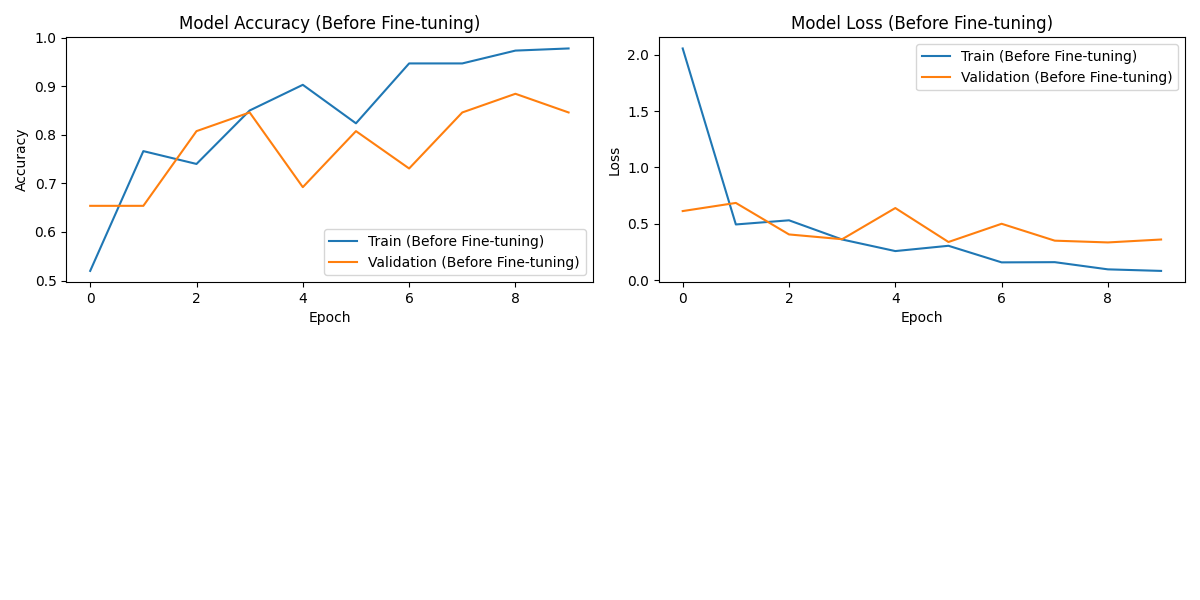
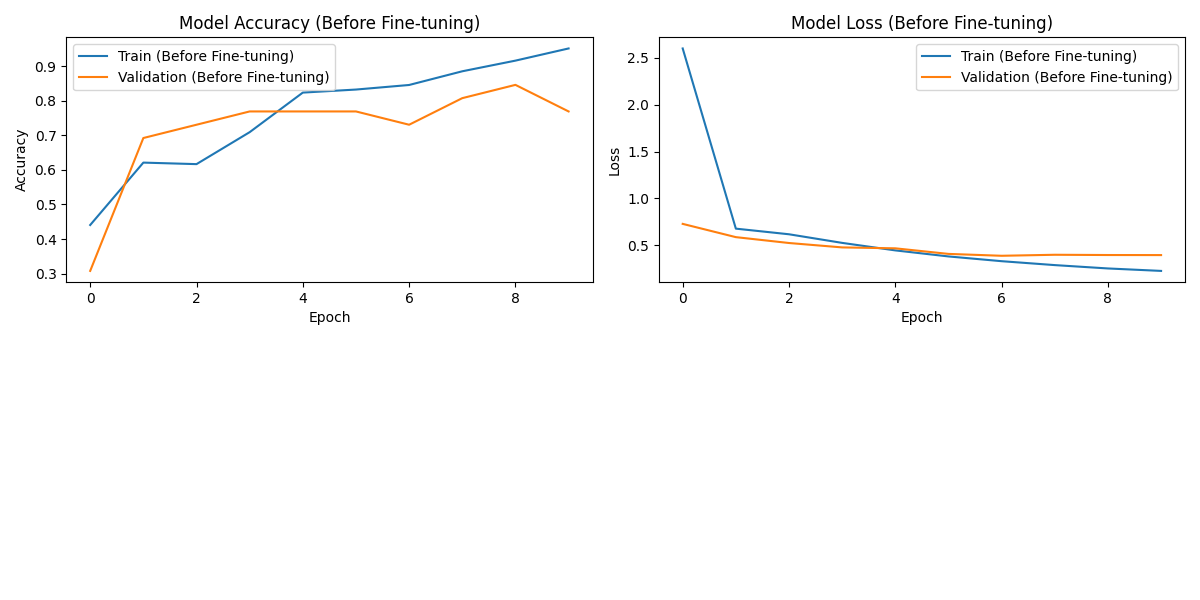
Layer removal
Removing that entire layer significantly reduced overfitting, still not good enough

diff --git a/Brain_tumour_detector.py b/Brain_tumour_detector.py
@@ -95,7 +95,7 @@ def create_model():
     detection_model = keras.Sequential([
         base_model,
         keras.layers.Flatten(),
-        keras.layers.Dense(256, activation='relu'),
+        #keras.layers.Dense(256, activation='relu'),
         keras.layers.Dense(128, activation='relu'),
         keras.layers.Dense(1, activation='sigmoid')
     ])
